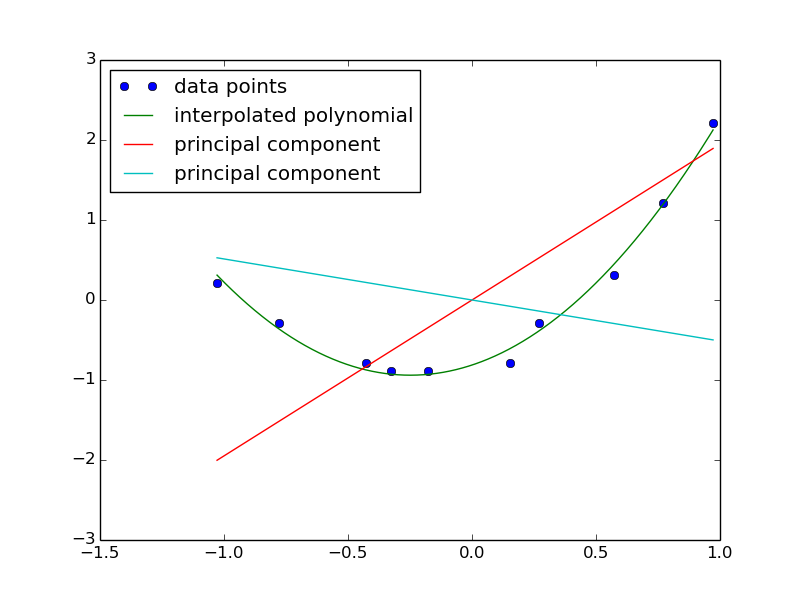
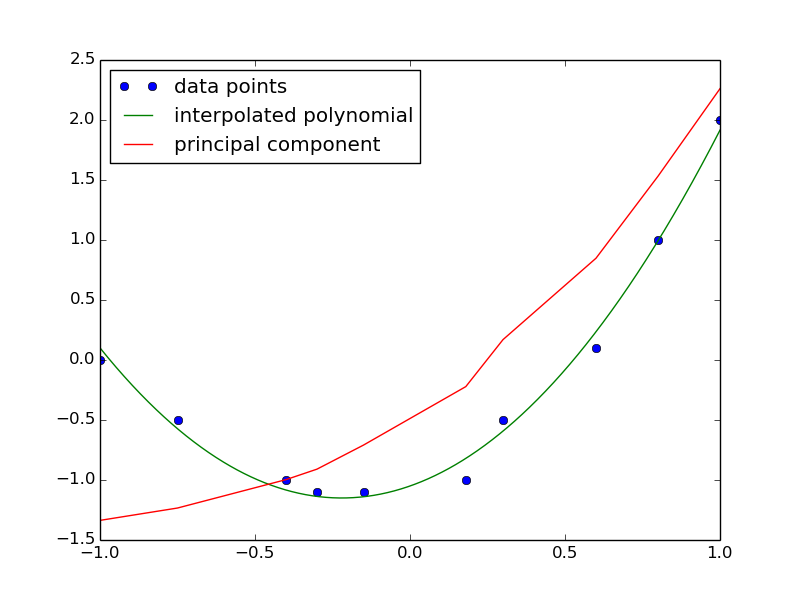
Fixed pca

diff --git a/curve-fitting/main.cpp b/curve-fitting/main.cpp
@@ -48,37 +48,42 @@ MatrixXd bestApproximation(const MatrixXd &A, int k) {
 
 MatrixXd getTrendVectors(const MatrixXd &A) {
     JacobiSVD<MatrixXd> svd(A, ComputeThinU);
-    return svd.matrixU();
+    return svd.matrixU() * svd.singularValues();
 }
 
 int main() {
 
-    MatrixXd B(2, 10);
-    B << -1, -0.75, -0.4, -0.3, -0.15, 0.18, 0.3, 0.6, 0.8, 1,
-        0, -0.5, -1.0, -1.1, -1.1, -1.0, -0.5, 0.1, 1.0, 2.0;
+    VectorXd x(10);
+    x << -1, -0.75, -0.4, -0.3, -0.15, 0.18, 0.3, 0.6, 0.8, 1;
+
+    VectorXd y(10);
+    y << 0, -0.5, -1.0, -1.1, -1.1, -1.0, -0.5, 0.1, 1.0, 2.0;
+
+    VectorXd y2(10);
+    y2 << -1, -1, -2.0, -1.5, -2.1, -1.5, 0.5, 0.7, 1.1, 2.2;
 
     //center data around 0
-    B.row(0) = (B.row(0).array() - (B.row(0).mean())).matrix();
-    B.row(1) = (B.row(1).array() - (B.row(1).mean())).matrix();
+    /*B.row(0) = (B.row(0).array() - (B.row(0).mean())).matrix();
+    B.row(1) = (B.row(1).array() - (B.row(1).mean())).matrix();*/
 
     plt::figure();
-    plt::plot(toCpp(B.row(0)), toCpp(B.row(1)), {{"label", "data points"}, {"marker", "o"}, {"linestyle", ""}});
+    plt::plot(toCpp(x), toCpp(y), {{"label", "data points"}, {"marker", "o"}, {"linestyle", ""}});
 
     VectorXd c;
-    polyfit(c, B.row(0), B.row(1), 2);
+    polyfit(c, x, y, 2);
 
-    VectorXd samplingX = VectorXd::LinSpaced(1000, B.row(0).minCoeff(), B.row(0).maxCoeff());
+    VectorXd samplingX = VectorXd::LinSpaced(1000, x.minCoeff(), x.maxCoeff());
     VectorXd samplingY;
     evaluate(samplingY, c, samplingX);
 
     plt::plot(toCpp(samplingX), toCpp(samplingY), {{"label", "interpolated polynomial"}});
 
+    MatrixXd B(10, 2);
+    B << x, y;
+
     MatrixXd B1 = getTrendVectors(B);
     for (int i = 0; i < B1.cols(); i++) {
-        c = Vector2d(0, B1(1, i) / B1(0, i));
-        evaluate(samplingY, c, samplingX);
-
-        plt::plot(toCpp(samplingX), toCpp(samplingY), {{"label", "principal component"}});
+        plt::plot(toCpp(x), toCpp(B1.col(i)), {{"label", "principal component"}});
     }
 
     plt::legend();
